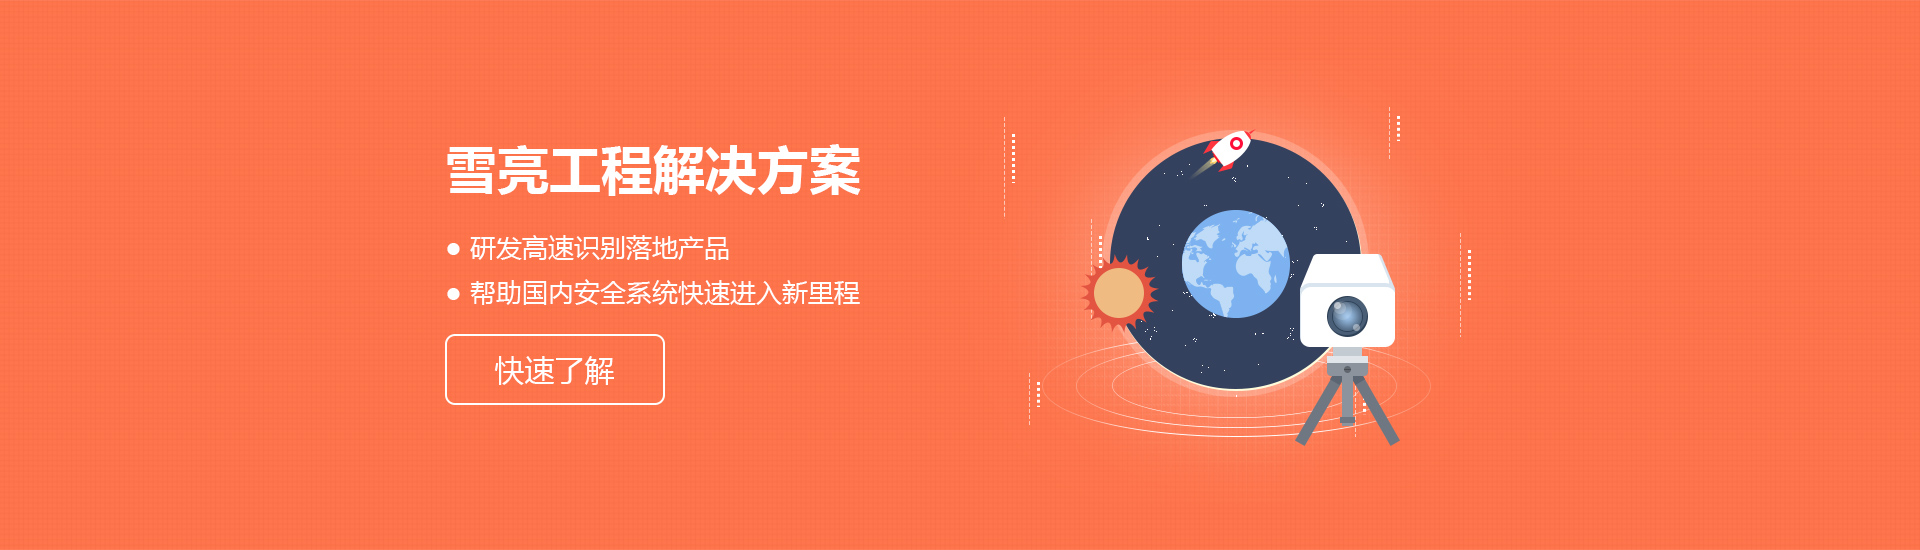
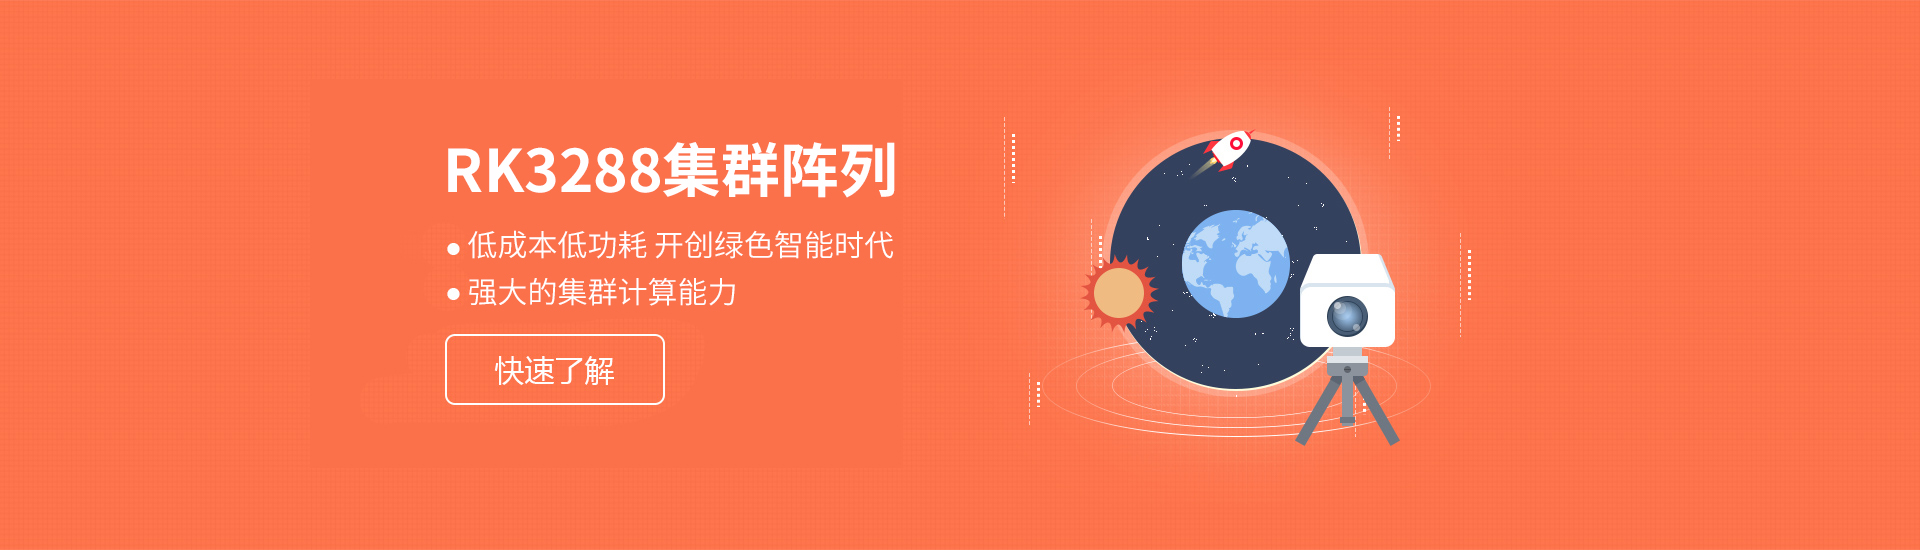
页面布局整体修改

Changed region(s): [[0.2188, 0.4018, 0.4688, 0.5564], [0.2188, 0.2473, 0.4688, 0.3709]]

diff --git a/index.html b/index.html
@@ -2,7 +2,7 @@
 <html lang="zh-CN">
 
     <head>
-        <title>首页</title>
+        <title>SharpAI首页</title>
         <meta http-equiv="X-UA-Compatible" content="IE=edge,chrome=1">
         <meta charset="UTF-8">
         <meta name="viewport" content="width=device-width, initial-scale=1, maximum-scale=1, user-scalable=no">
@@ -42,8 +42,16 @@
             <!-- 轮播图 开始 -->
             <div id="slide" class="slide">
                 <ul style="transform: translateX(-1286px); width: 600%; transition: none 0s ease 0s;">
-                    <li class="slide-one" style="width: 16.6667%; position: relative;"><img src="./img/shuffling1.jpg"></li>
-                    <li class="slide-two" style="width: 16.6667%; position: relative;"><a href="pages/know/know.html"><img class="know-go" src="./img/shuffling2.jpg"></a></li>
+                    <li style="width: 16.6667%;">
+                        <a href="#">
+                            <img src="./img/shuffling1.jpg">
+                        </a>
+                    </li>
+                    <li style="width: 16.6667%; position: relative;">
+                        <a href="pages/cluster_intro/cluster_intro.html">
+                            <img src="./img/shuffling2.jpg">
+                        </a>
+                    </li>
                 </ul>
                 <div>
                     <span class="prev_btn"></span>
@@ -68,8 +76,8 @@
             <div id="version-fa">
                 <div class="version-top">
                     <div class="version-top-info">
-                        <div class="top-info-01 top-info-01">国内优秀、低成本的AI产品</div>
-                        <div class="top-info-02 top-info-02">汪汪安全盒旗舰版、汪汪安全盒家庭版、汪汪安全盒畅享版、汪汪安全盒高级版，还可以个性化定制哦！</div>
+                        <div class="top-info-01 top-info-01">嵌入式AI终端产品</div>
+                        <div class="top-info-02 top-info-02">汪汪安全盒旗舰版、汪汪安全盒家庭版、汪汪安全盒畅享版、汪汪安全盒集群版，还可以个性化定制哦！</div>
                     </div> 
                 </div>
                 <div class="version-bootom">
@@ -167,7 +175,7 @@
                                     </thead>
                                     <tbody>
                                       <tr>
-                                        <td class="text-center introduce-one">汪汪安全盒高级版</td>
+                                        <td class="text-center introduce-one">汪汪安全盒集群版</td>
                                       </tr>
                                       <tr>
                                         <td>
@@ -177,7 +185,7 @@
                                       </tr>
                                       <tr>
                                         <td style="text-align: center;">
-                                            <button type="button" class="btn btn-outline-primary text-center location-btn1">立即购买</button>
+                                            <a href="pages/help/help.html"><button type="button" class="btn btn-outline-primary text-center location-btn1">联系我们</button></a>
                                         </td>
                                       </tr>
                                     </tbody>
@@ -248,6 +256,7 @@
                             <section class="info-list">
                                 <div class="video-name">人脸识别-视频介绍</div>
                                 <div class="video-name">人脸识别</div>
+                                <div class="video-name">陌生人聚类</div>
                                 <div class="video-name">人形识别</div>
                                 <div class="video-name">物体识别</div>
                             </section>
@@ -427,7 +436,7 @@
                                             </div>
                                             <div class="info-one-look">
                                                 <div class="look-f1">嵌入式开发+边缘计算</div>
-                                                <div class="look-f2">深度学习与嵌入式结合，成本低，产品棒</div>
+                                                <div class="look-f2">深度学习与嵌入式结合，成本低，性能好</div>
                                             </div>
                                         </li>
                                         <li class="business-info-one">

diff --git a/pages/cluster_intro/cluster_intro.html b/pages/cluster_intro/cluster_intro.html
@@ -5,12 +5,11 @@
     <meta charset="UTF-8">
     <meta name="viewport" content="width=device-width, initial-scale=1.0">
     <meta http-equiv="X-UA-Compatible" content="ie=edge">
-    <title>帮助中心</title>
+    <title>SharpAI集群</title>
     <script src="../../js/jquery-3.3.1.min.js"></script>
     <script src="../../js/bootstrap.min.js"></script>
-    <script src="./help.js"></script>
     <link rel="stylesheet" href="../../css/bootstrap.min.css">
-    <link rel="stylesheet" href="./know.css">
+    <link rel="stylesheet" href="../cluster_intro/cluster_intro.css">
 </head>
 
 <body>
@@ -49,16 +48,17 @@
                 <div class="tab-content" id="nav-tabContent" style="color: rgb(102, 102, 102);">
                     <div class="tab-pane fade show active" id="list-home" role="tabpanel"
                         aria-labelledby="list-home-list">
-                        <p>A.分布式人脸识别集群系统</p>
-                        <p>包括人形检测，人脸检测，人脸识别等模块的计算，完善的分布式系统充分利用了RK3288的计算资源，调用空闲资源辅助核心区域进行计算，实现资源的高效利用。</p>
-                        <br>
-                        <p>B.对比其他大型GPU服务器</p>
-                        <p>RK3288集群能够在增加10倍计算效率的情况下，功耗只有其1/10. 真正做到了绿色AI，和可循环持久的使用环境。</p>
-                        <br>
+                        <h5>分布式人脸识别集群系统</h5><br>
+                        <p>基于RK3288的分布式集群，包括人形检测，人脸检测，人脸识别等模块的计算。</p>
+                        <p>完善的分布式系统充分利用了RK3288的计算资源，调用空闲资源辅助核心区域进行计算，实现资源的高效利用。同时扩大了处理能力的数量级，可根据客户业务量对分析处理能力进行扩展。</p>
                         <p class="content1"></p>
                     </div>
                     <div class="tab-pane fade" id="list-profile" role="tabpanel" aria-labelledby="list-profile-list">
                         <!-- <p contenteditable="true">这是一个可编辑的段落。</p> -->
+                        <div style="padding: 17px 17px 0px 25px;">
+                            <h5>对比其他大型GPU服务器</h5><br>
+                            <p>RK3288集群能够在增加<b>10倍</b>计算效率的情况下，功耗只有其<b>1/10</b>. 真正做到了<b>绿色AI</b>，和可循环持久的使用环境。</p>
+                        </div>
                         <p class="content2">
                             <img src="../../img/price.jpg" width="100%">
                         </p>

diff --git a/pages/about/about.html b/pages/about/about.html
@@ -5,7 +5,7 @@
     <meta charset="UTF-8">
     <meta name="viewport" content="width=device-width, initial-scale=1.0">
     <meta http-equiv="X-UA-Compatible" content="ie=edge">
-    <title>关于我们</title>
+    <title>关于SharpAI</title>
     <script src="../../js/jquery-3.3.1.min.js"></script>
     <script src="../../js/bootstrap.min.js"></script>
     <link rel="stylesheet" href="../../css/bootstrap.min.css">

diff --git a/pages/contact/contact.html b/pages/contact/contact.html
@@ -5,7 +5,7 @@
     <meta charset="UTF-8">
     <meta name="viewport" content="width=device-width, initial-scale=1.0">
     <meta http-equiv="X-UA-Compatible" content="ie=edge">
-    <title>联系我们</title>
+    <title>联系SharpAI</title>
     <script src="../../js/jquery-3.3.1.min.js"></script>
     <script src="../../js/bootstrap.min.js"></script>
     <link rel="stylesheet" href="../../css/bootstrap.min.css">

diff --git a/pages/help/help.html b/pages/help/help.html
@@ -5,7 +5,7 @@
     <meta charset="UTF-8">
     <meta name="viewport" content="width=device-width, initial-scale=1.0">
     <meta http-equiv="X-UA-Compatible" content="ie=edge">
-    <title>帮助中心</title>
+    <title>SharpAI帮助中心</title>
     <script src="../../js/jquery-3.3.1.min.js"></script>
     <script src="../../js/bootstrap.min.js"></script>
     <script src="./help.js"></script>

diff --git a/js/index.js b/js/index.js
@@ -8,10 +8,6 @@ $(function(){
         })
     })
 
-    $(".location-btn1").click(function(){
-        window.location = "https://item.taobao.com/item.htm?spm=a230r.7195193.1997079397.8.1d1967f9ShREyM&id=591857403757&abbucket=3"
-    })
-
     function showIndex(my_this){
         var index = $(my_this).index()
         if(index && index == 1){
